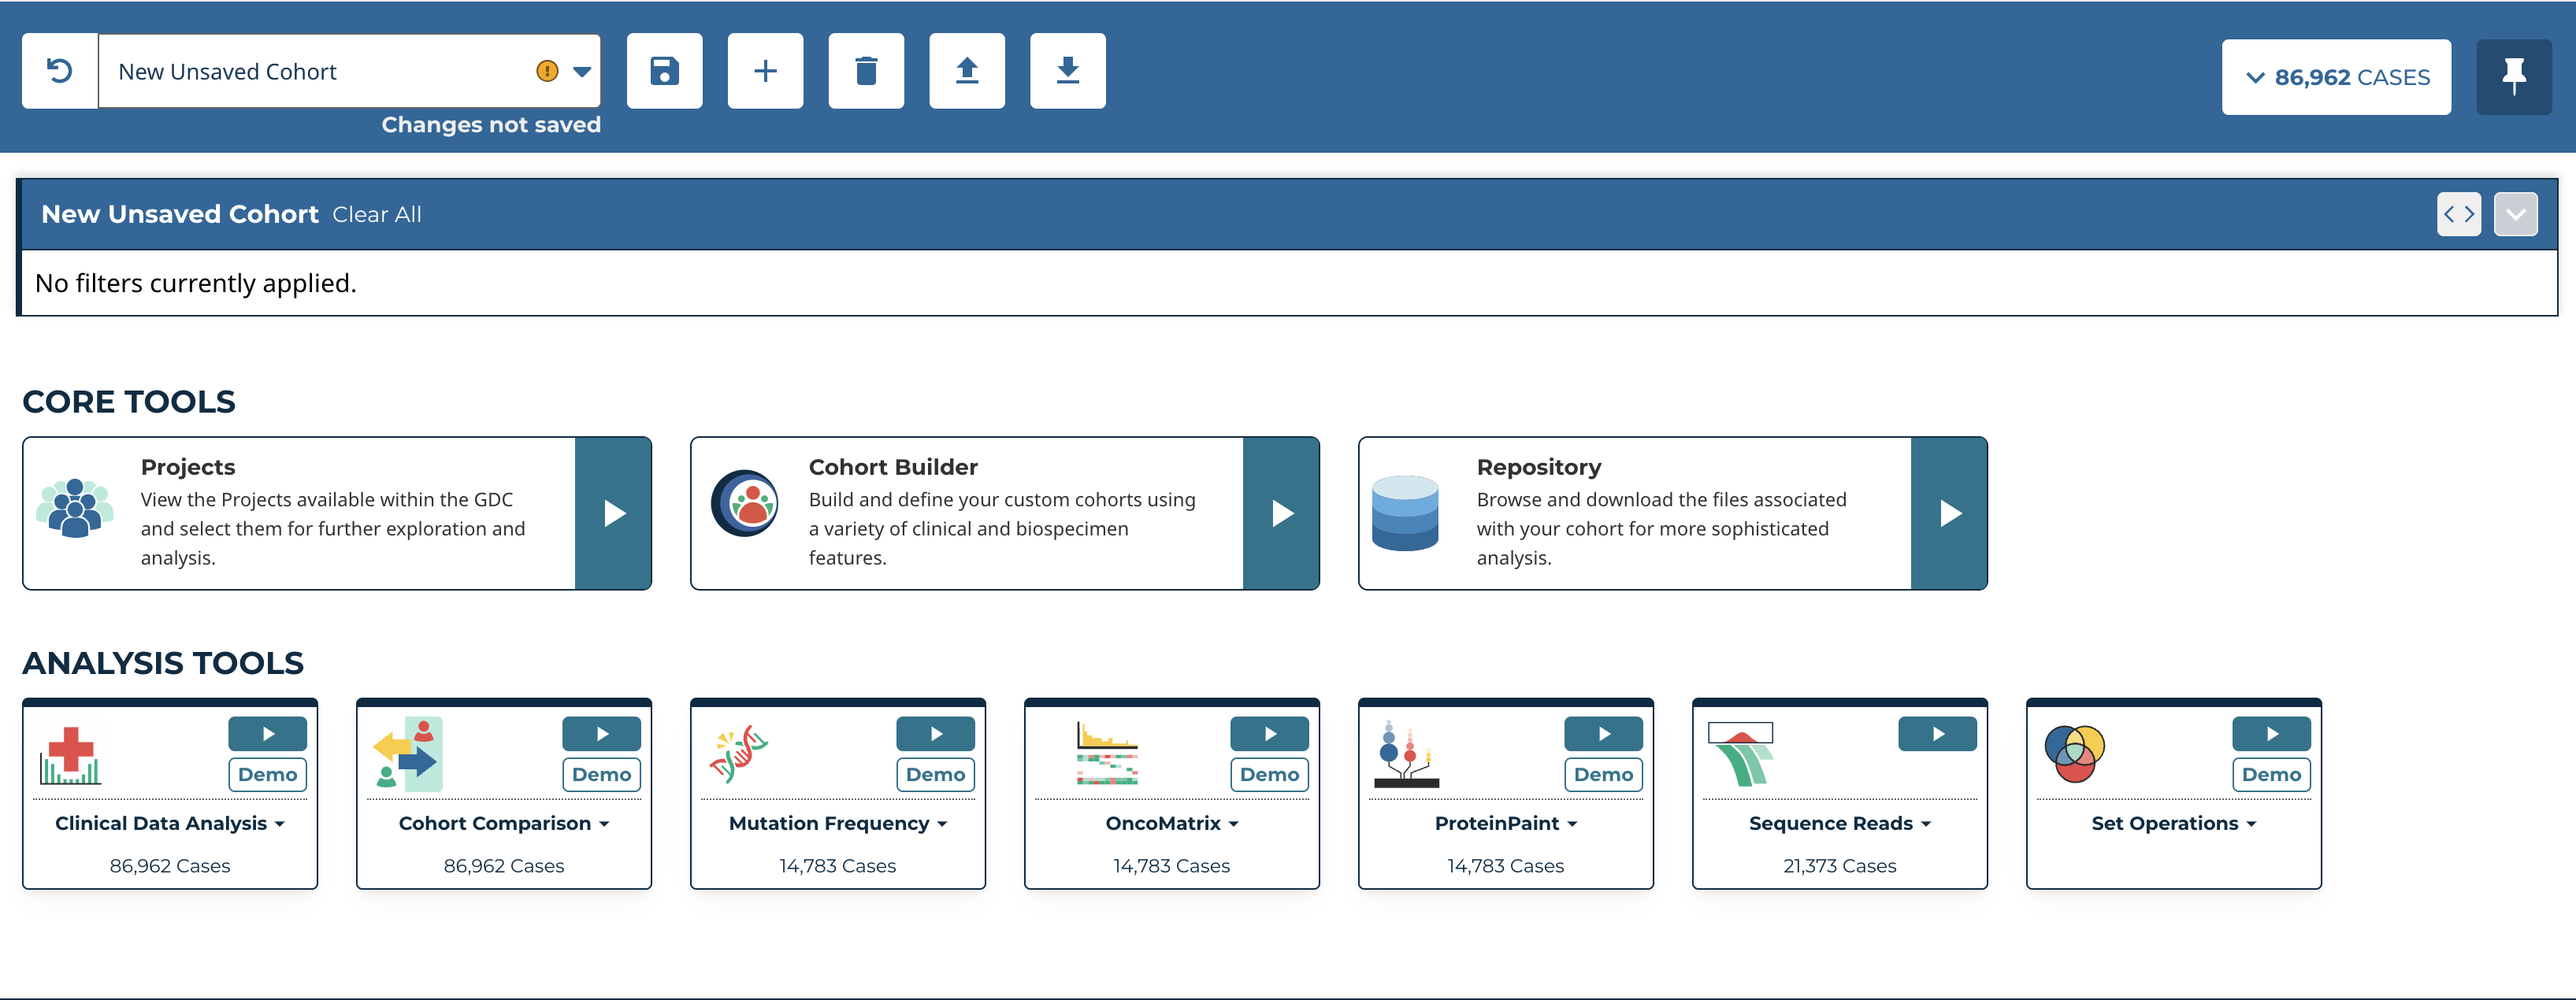
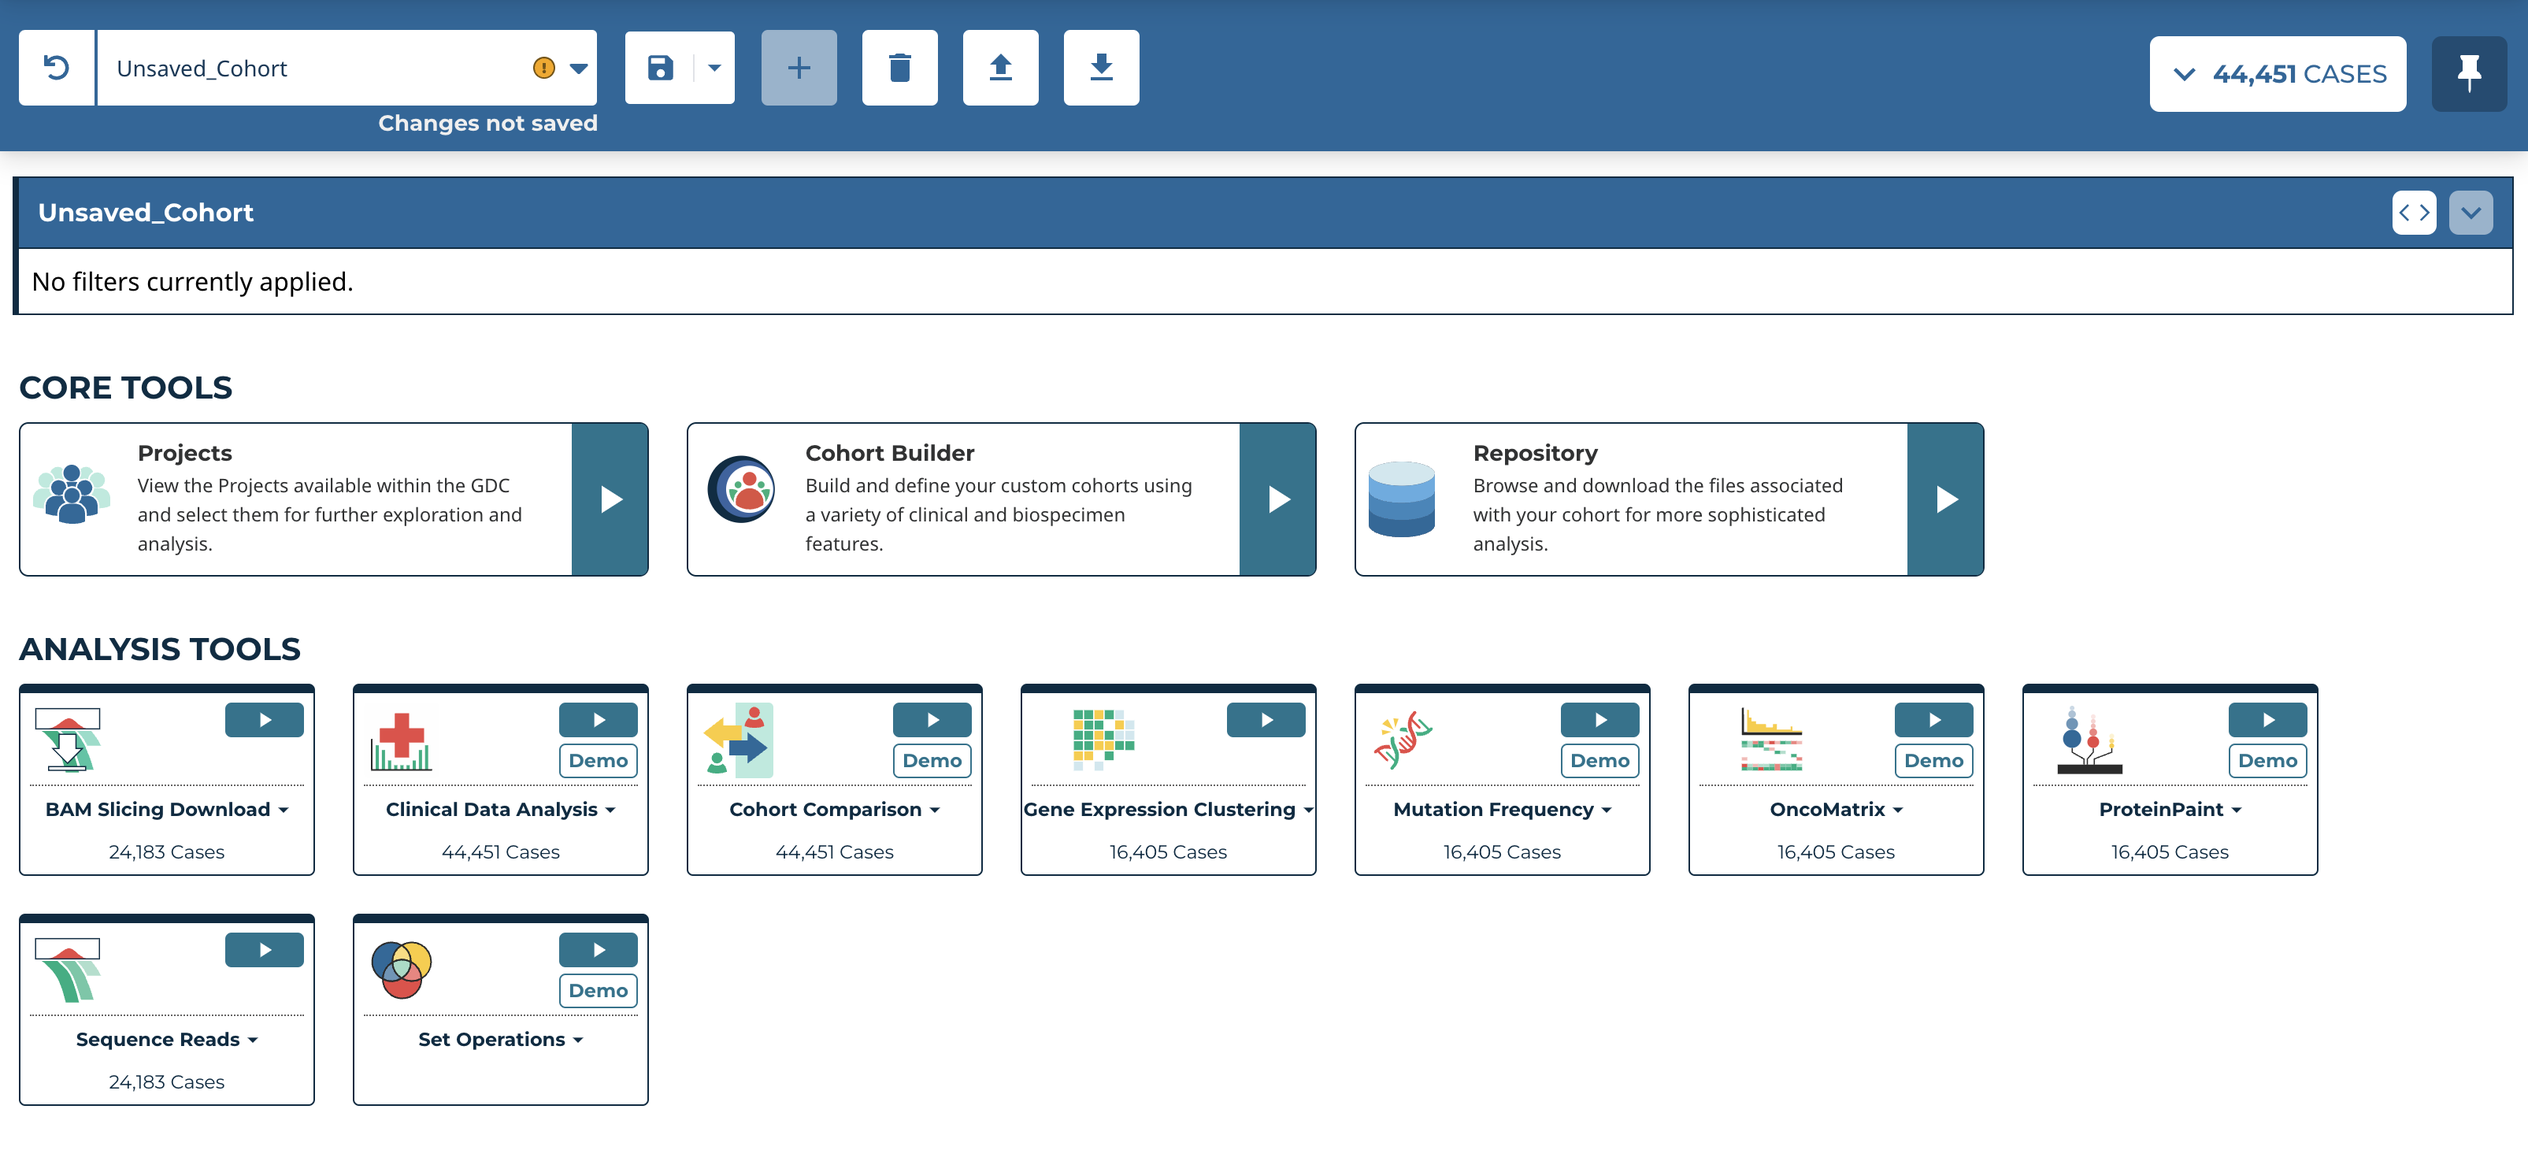
DOC-336 updates analysis center screenshots; tool names

diff --git a/docs/Data_Portal/Users_Guide/analysis_center.md b/docs/Data_Portal/Users_Guide/analysis_center.md
@@ -15,7 +15,7 @@ This section contains the core GDC tools.  This includes the [Projects](LINKHERE
 
 ## Analysis Tools ##
 
-The Analysis Tools section contains the analysis tools available in the Analysis Center: [BAM Download](LINKHERE), [Clinical Data Analysis](LINKHERE), [Cohort Comparison](LINKHERE), [Gene Expression](LINKHERE), [MAF Aggregation](LINKHERE), [Mutation Frequency](LINKHERE), [OncoMatrix](LINKHERE), [ProteinPaint](LINKHERE), [Sequence Reads](LINKHERE), and [Set Operations](LINKHERE).
+The Analysis Tools section contains the analysis tools available in the Analysis Center: [BAM Slicing Download](LINKHERE), [Clinical Data Analysis](LINKHERE), [Cohort Comparison](LINKHERE), [Gene Expression Clustering](LINKHERE), [MAF Aggregation](LINKHERE), [Mutation Frequency](LINKHERE), [OncoMatrix](LINKHERE), [ProteinPaint](LINKHERE), [Sequence Reads](LINKHERE), and [Set Operations](LINKHERE).
 
 These can be used by directly selecting the tool cards.
 
